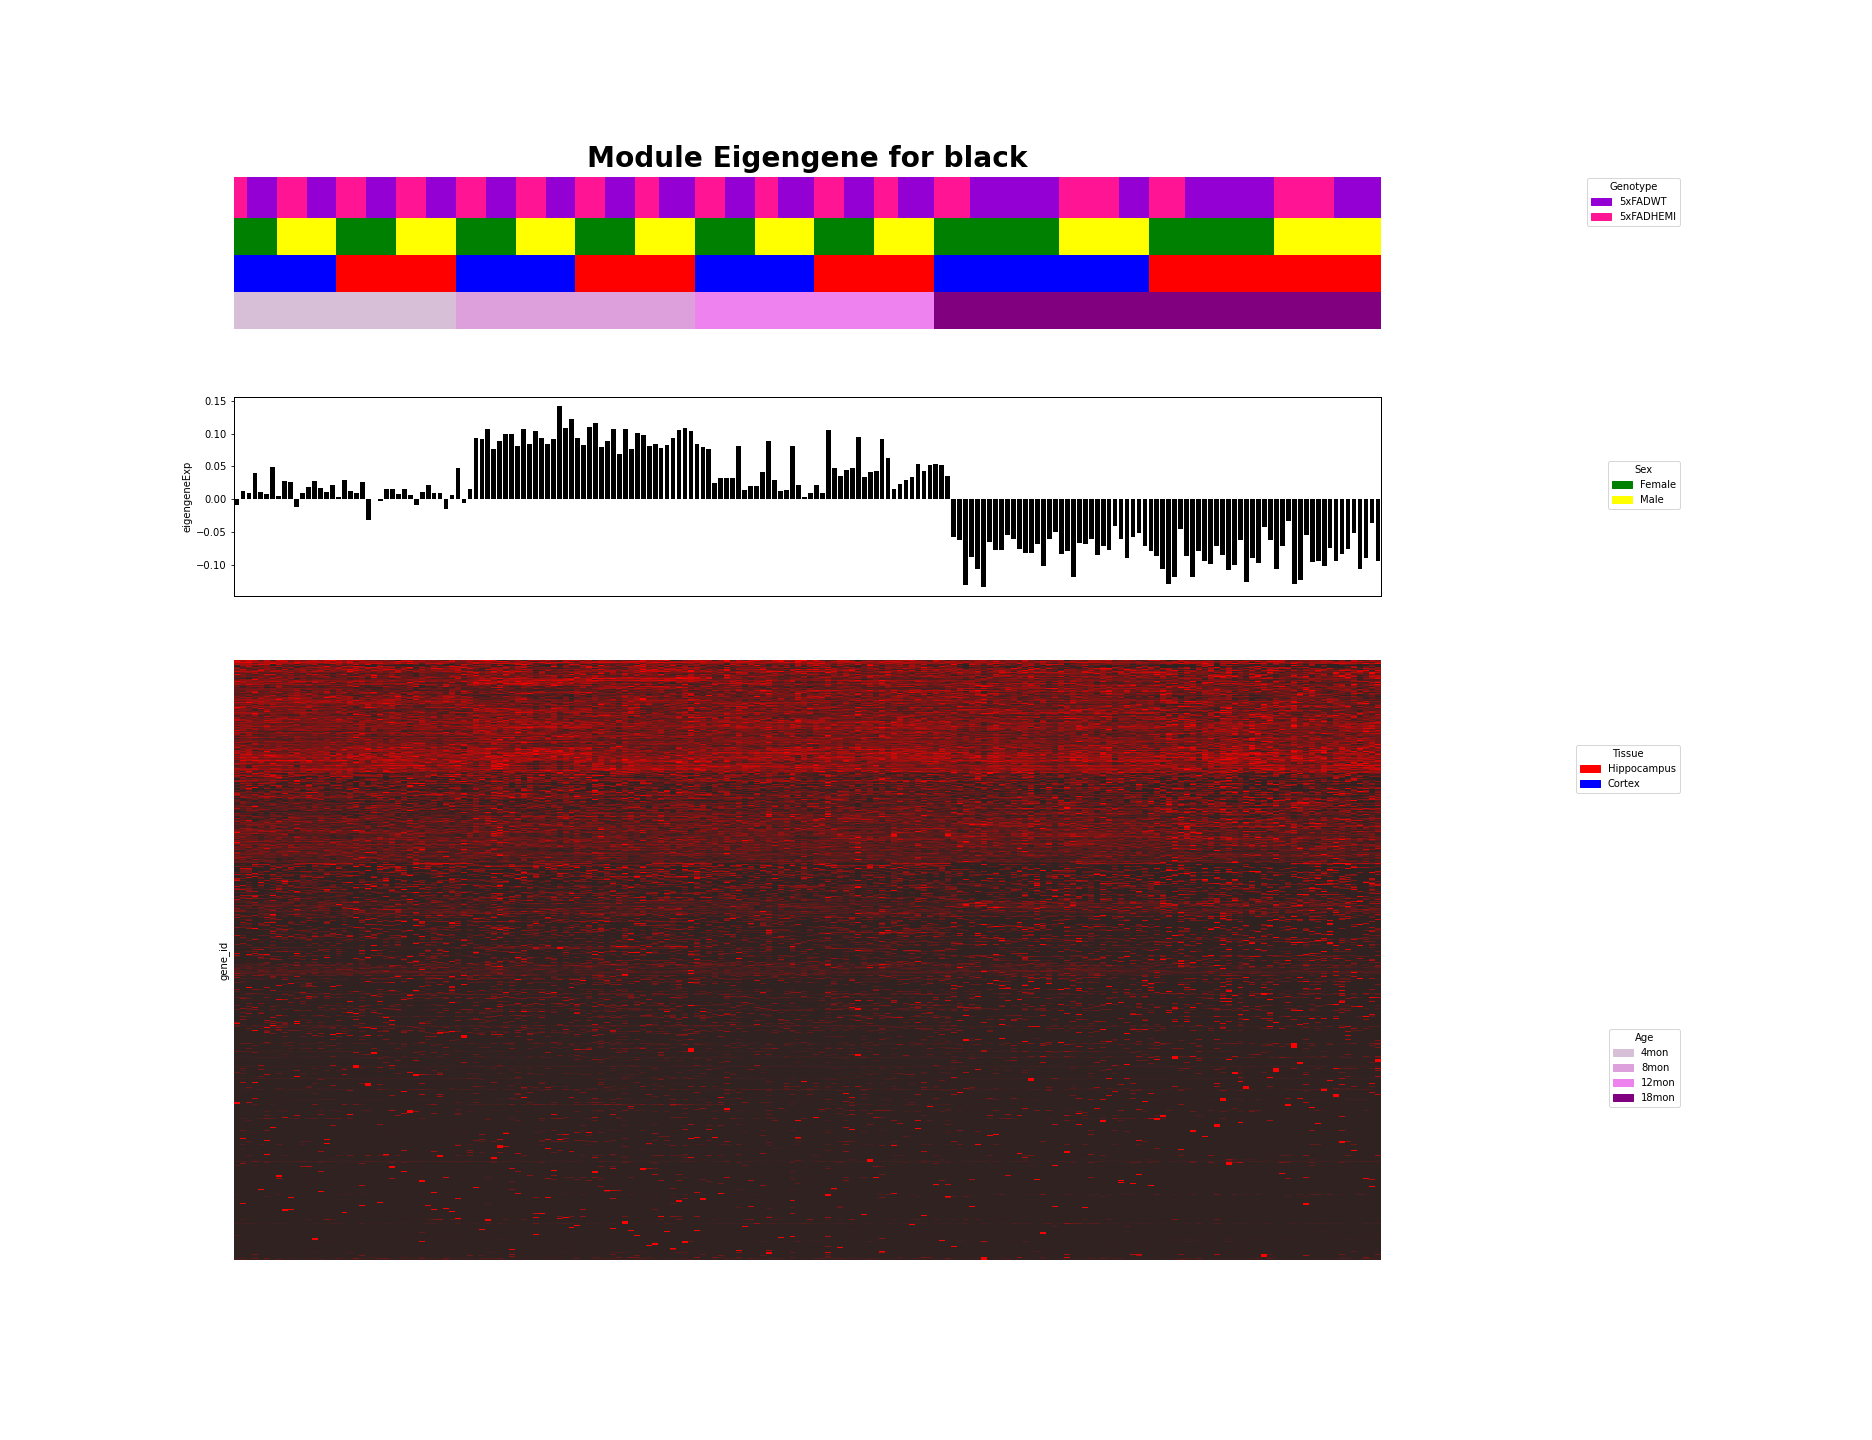
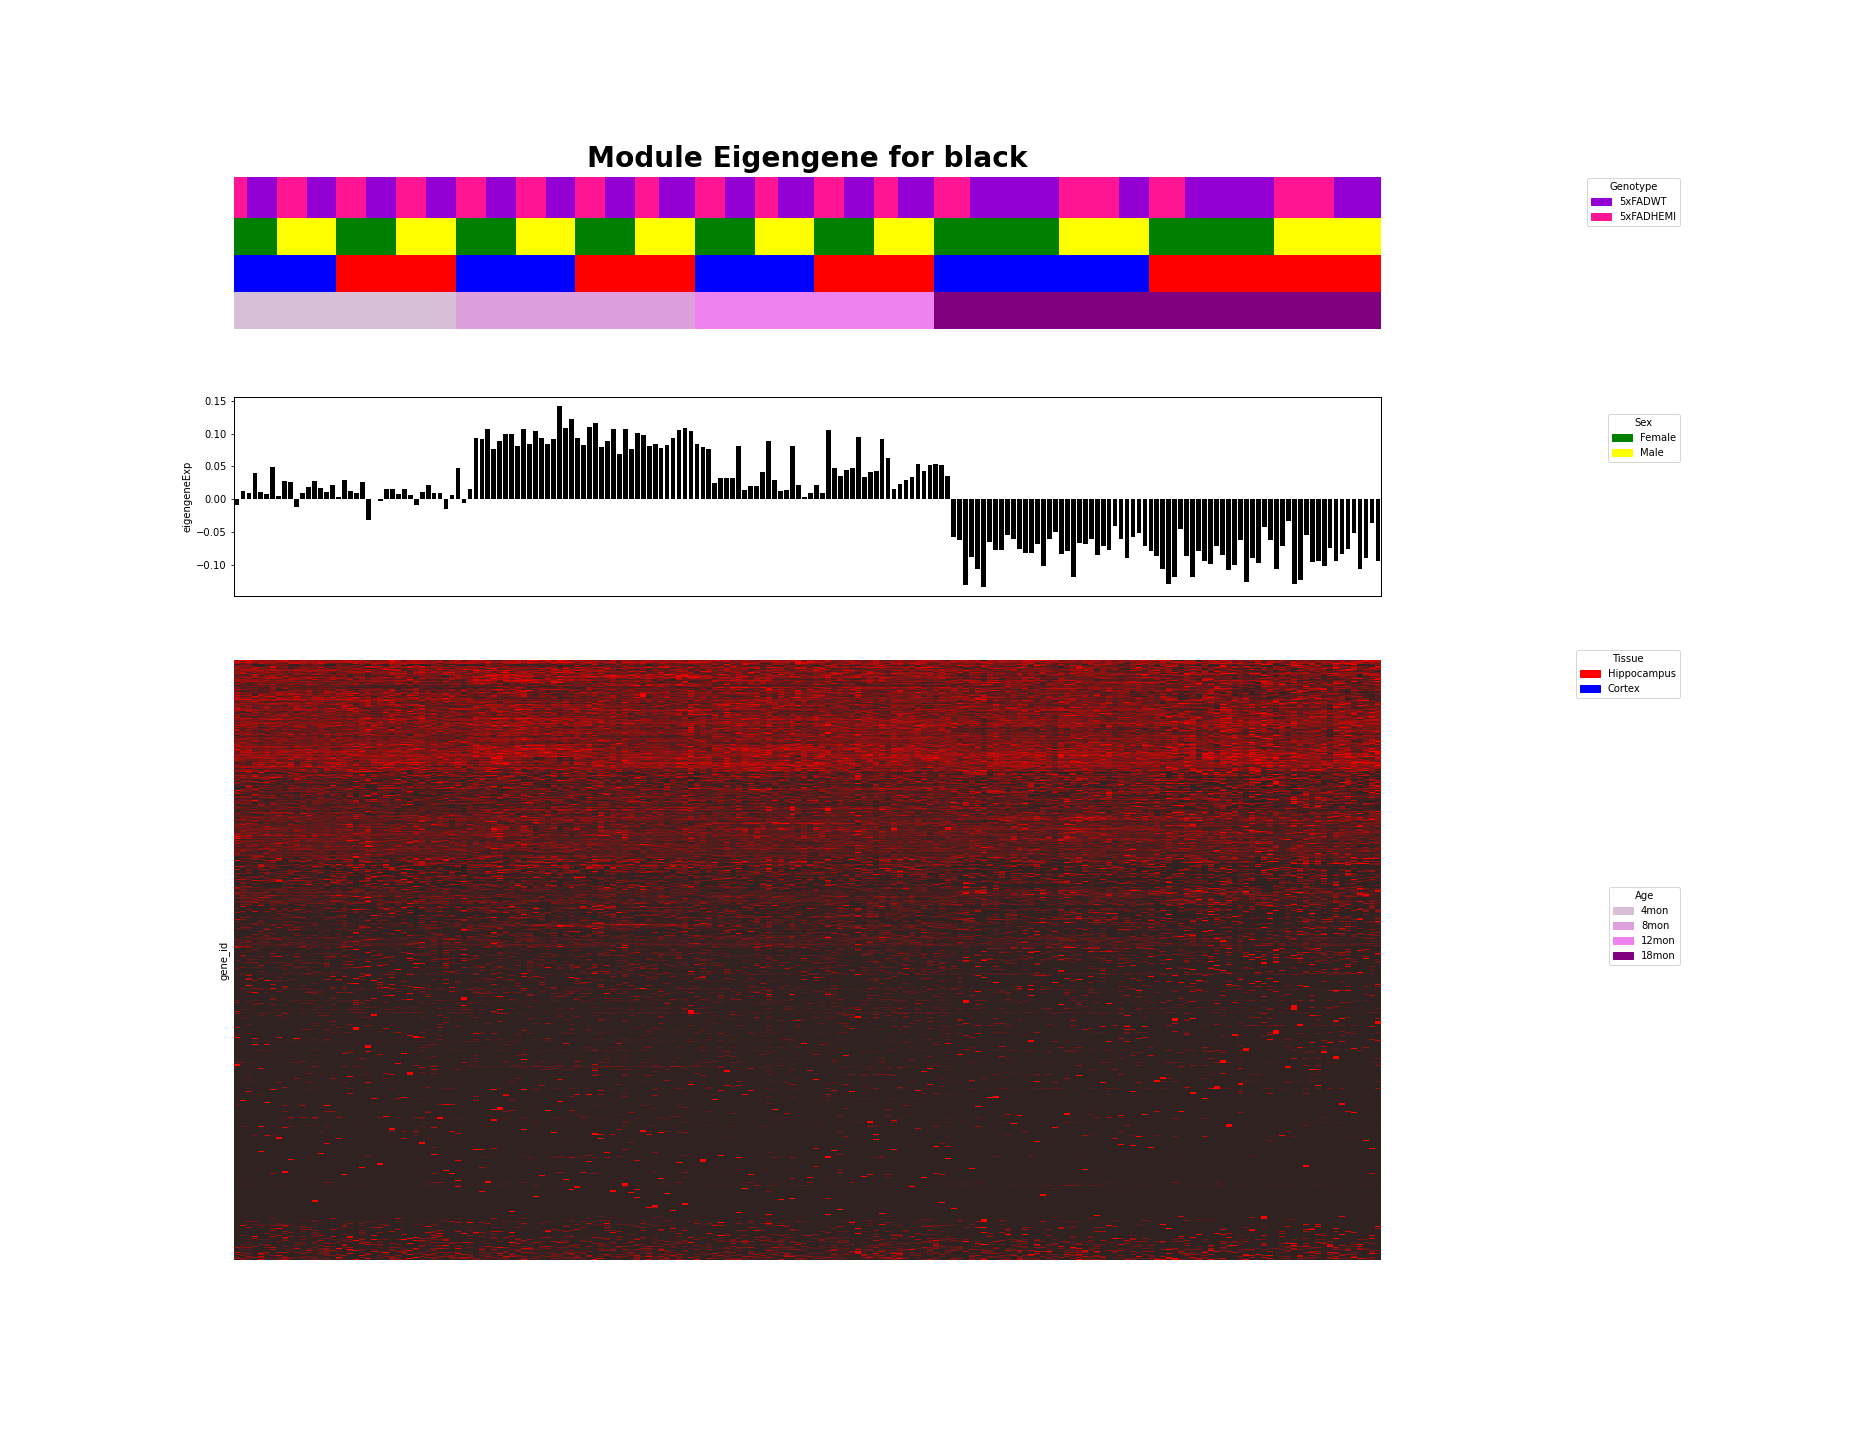
debug plotModuleEigenGene

diff --git a/PyWGCNA/wgcna.py b/PyWGCNA/wgcna.py
@@ -7,7 +7,7 @@ import statistics
 import sys
 import warnings
 from scipy.spatial.distance import pdist, squareform
-from scipy.cluster.hierarchy import linkage, cut_tree, dendrogram
+from scipy.cluster.hierarchy import linkage, cut_tree, dendrogram, fcluster
 from scipy.stats import t
 from statsmodels.formula.api import ols
 import resource
@@ -2809,9 +2809,12 @@ class WGCNA(GeneExp):
             heatmap = self.datExpr[:, self.datExpr.var['moduleColors'] == moduleName].to_df()
             heatmap = (heatmap-heatmap.min(axis=0))/(heatmap.max(axis=0)-heatmap.min(axis=0))
             heatmap = heatmap.T
-            tmp = sns.clustermap(heatmap, col_cluster=False)
-            plt.close()
-            heatmap = heatmap.iloc[tmp.dendrogram_row.reordered_ind, :]
+            Z = WGCNA.hclust(pdist(heatmap), method="average")
+            # Clusterize the data
+            labels = fcluster(Z, t=0.8, criterion='distance')
+            # Keep the indices to sort labels
+            labels_order = np.argsort(labels)
+            heatmap = heatmap.iloc[labels_order, :]
             ME = pd.DataFrame(self.datME["ME" + moduleName].values, columns=['eigengeneExp'])
             ME['sample_name'] = self.datME.index
 

diff --git a/setup.py b/setup.py
@@ -3,7 +3,7 @@ from setuptools import setup
 setup(
     name='PyWGCNA',  # the name of your package
     packages=['PyWGCNA'],  # same as above
-    version='v0.6.6',  # version number
+    version='v0.6.7',  # version number
     license='MIT',  # license type
     description='PyWGCNA is a Python package designed to do Weighted correlation network analysis (WGCNA)',
     # short description
